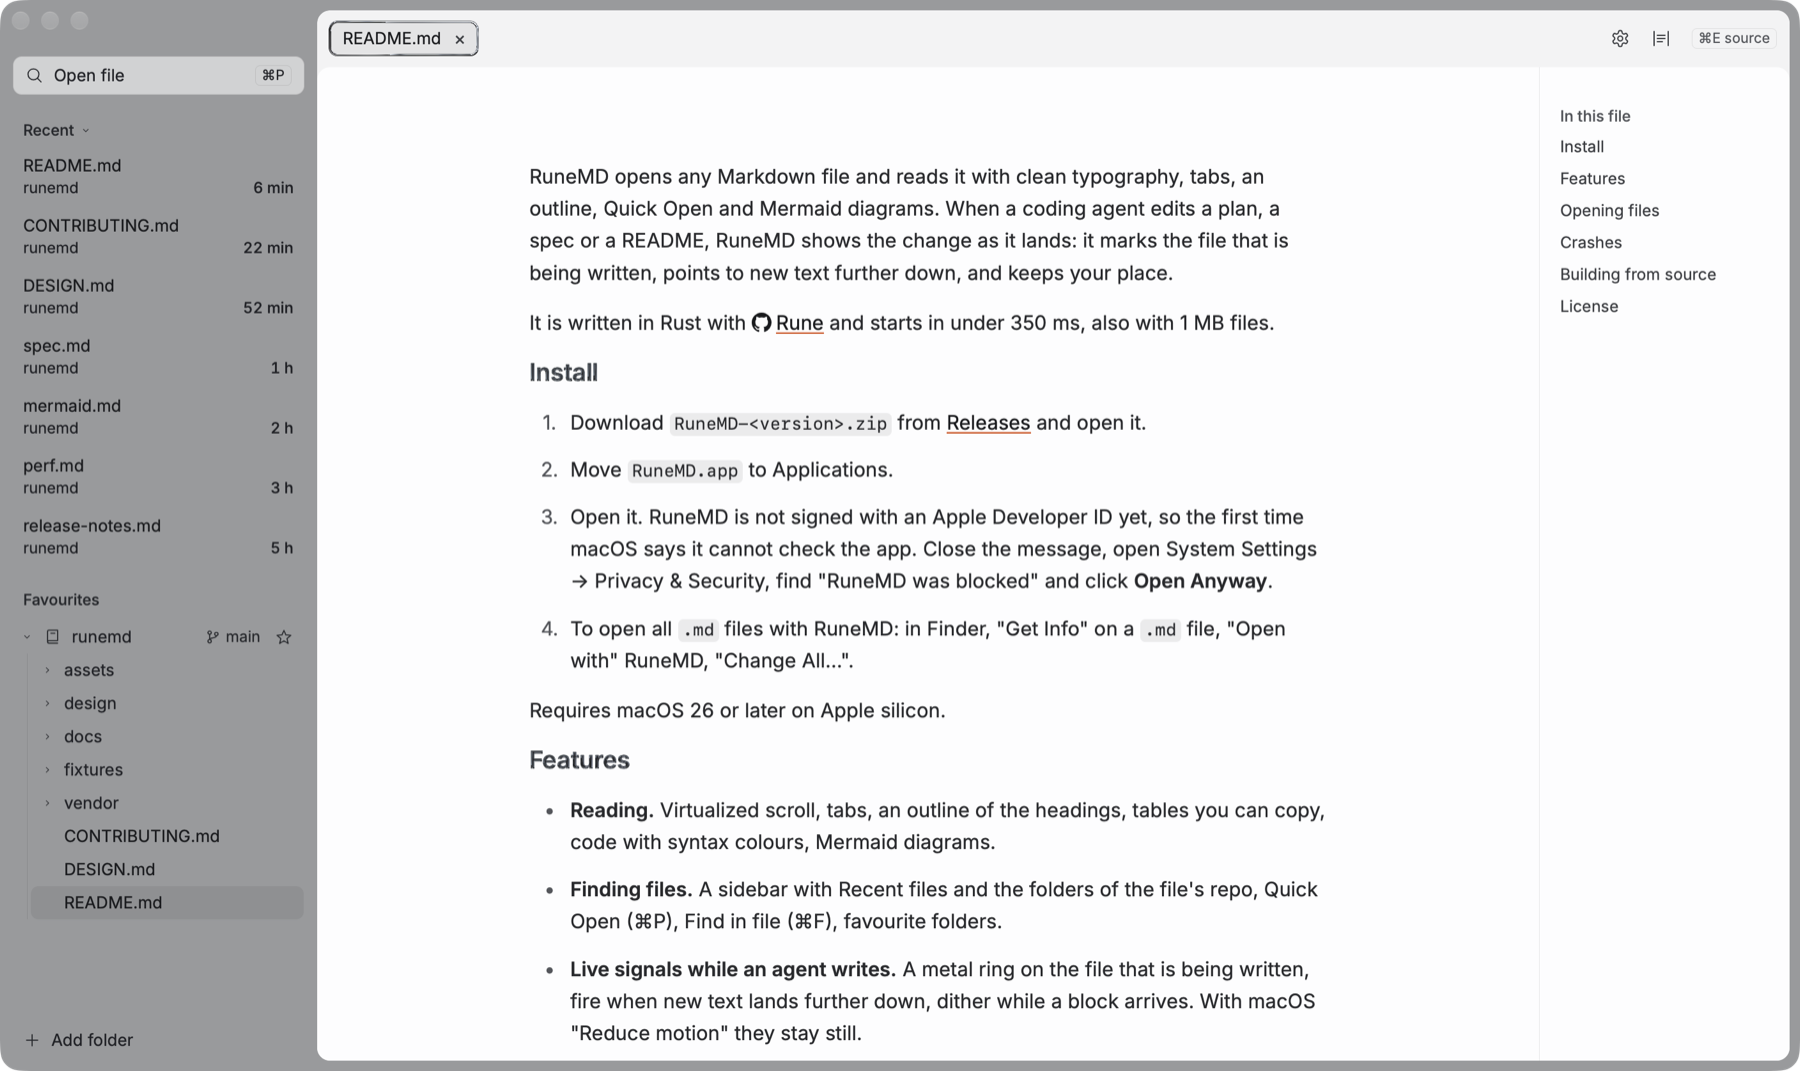
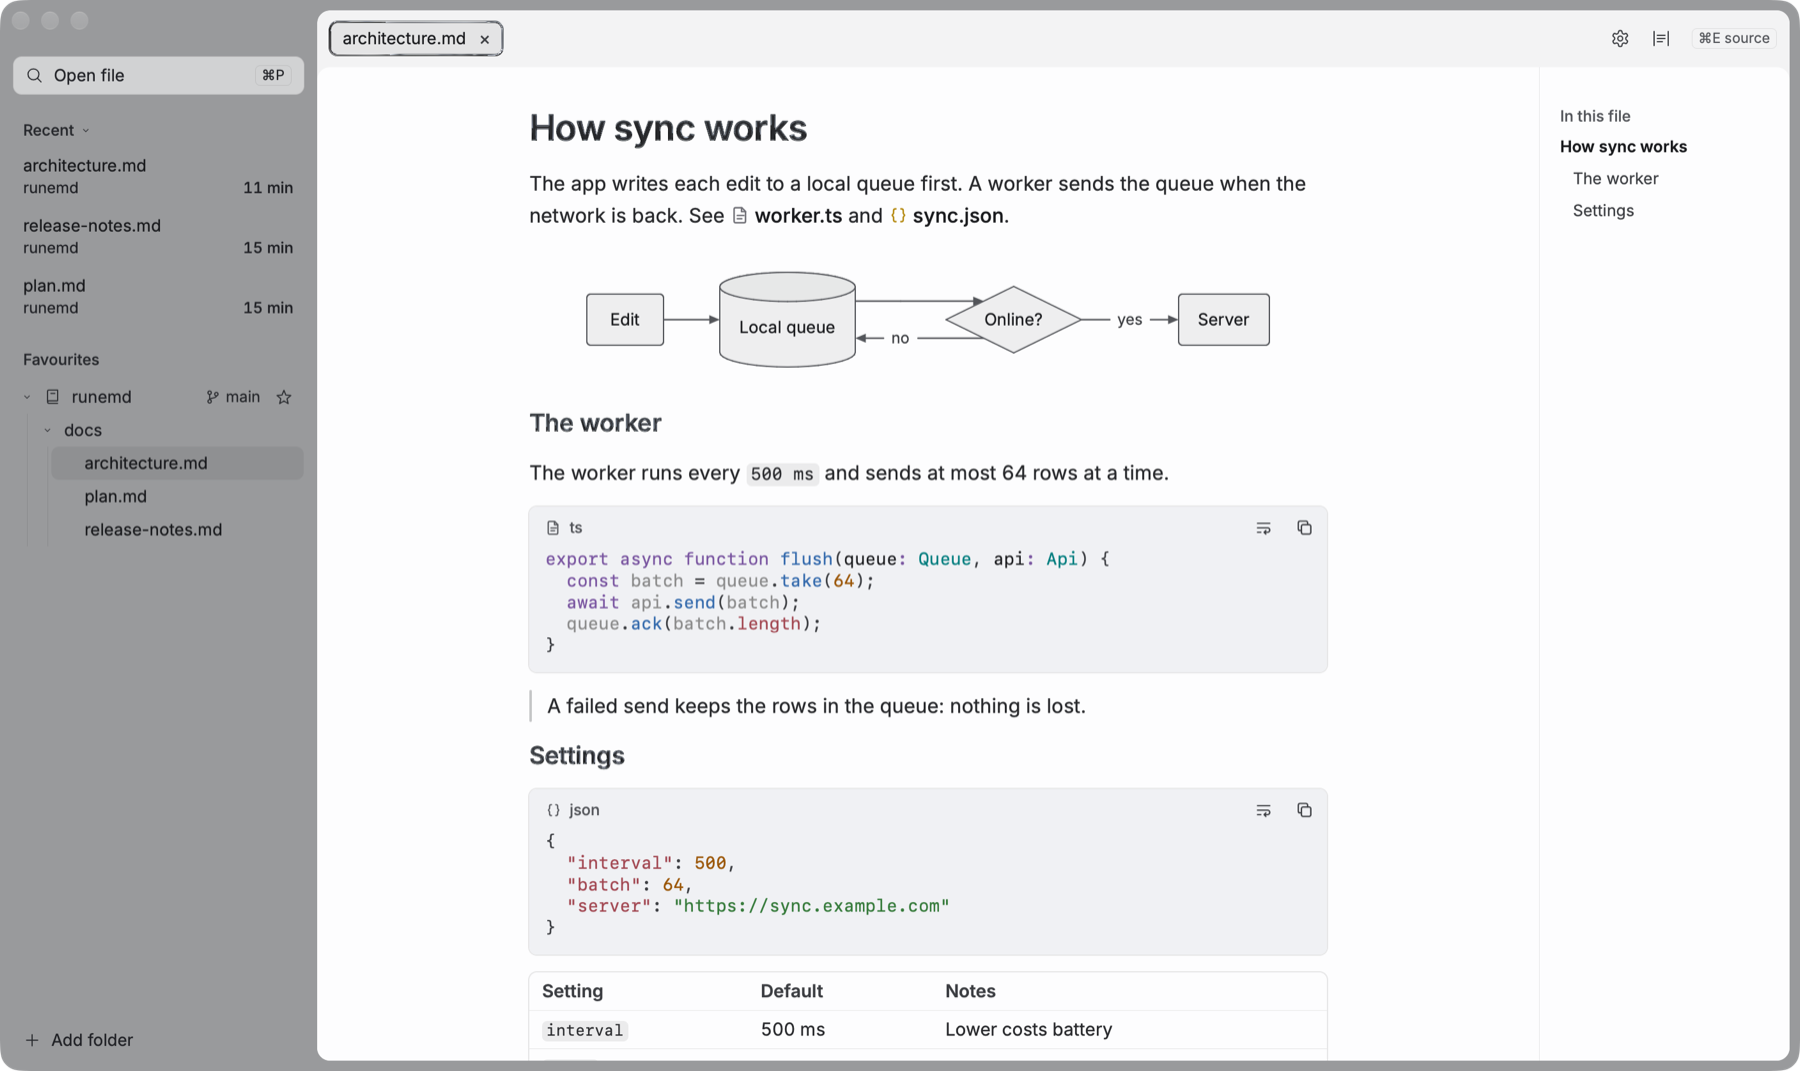
docs(readme): screenshots of a design doc with links, code and JSON

diff --git a/README.md b/README.md
@@ -2,7 +2,7 @@
 
 <p align="center">A native Markdown reader for macOS that shows what your agents write, live.</p>
 
-<p align="center"><img src="docs/images/screenshot-dark.png" alt="RuneMD in the dark theme reading its own README: a sidebar with recent files and the repo folders, and an outline on the right" width="900"></p>
+<p align="center"><img src="docs/images/screenshot-dark.png" alt="RuneMD in the dark theme reading a design doc: links to files, a Mermaid diagram, TypeScript and JSON code, a quote and a table, with recent files on the left and an outline on the right" width="900"></p>
 
 RuneMD opens any Markdown file and reads it with clean typography, tabs, an outline, Quick Open and
 Mermaid diagrams. When a coding agent edits a plan, a spec or a README, RuneMD shows the change as it
@@ -36,7 +36,7 @@ Requires macOS 26 or later on Apple silicon.
 - **Settings (⌘,).** Watched folders, font, size, light or dark theme, the bottom fire (Off, Brief or
   Always).
 
-<p align="center"><img src="docs/images/screenshot-light.png" alt="The same README in the light theme" width="900"></p>
+<p align="center"><img src="docs/images/screenshot-light.png" alt="The same document in the light theme" width="900"></p>
 
 ## Opening files
 
